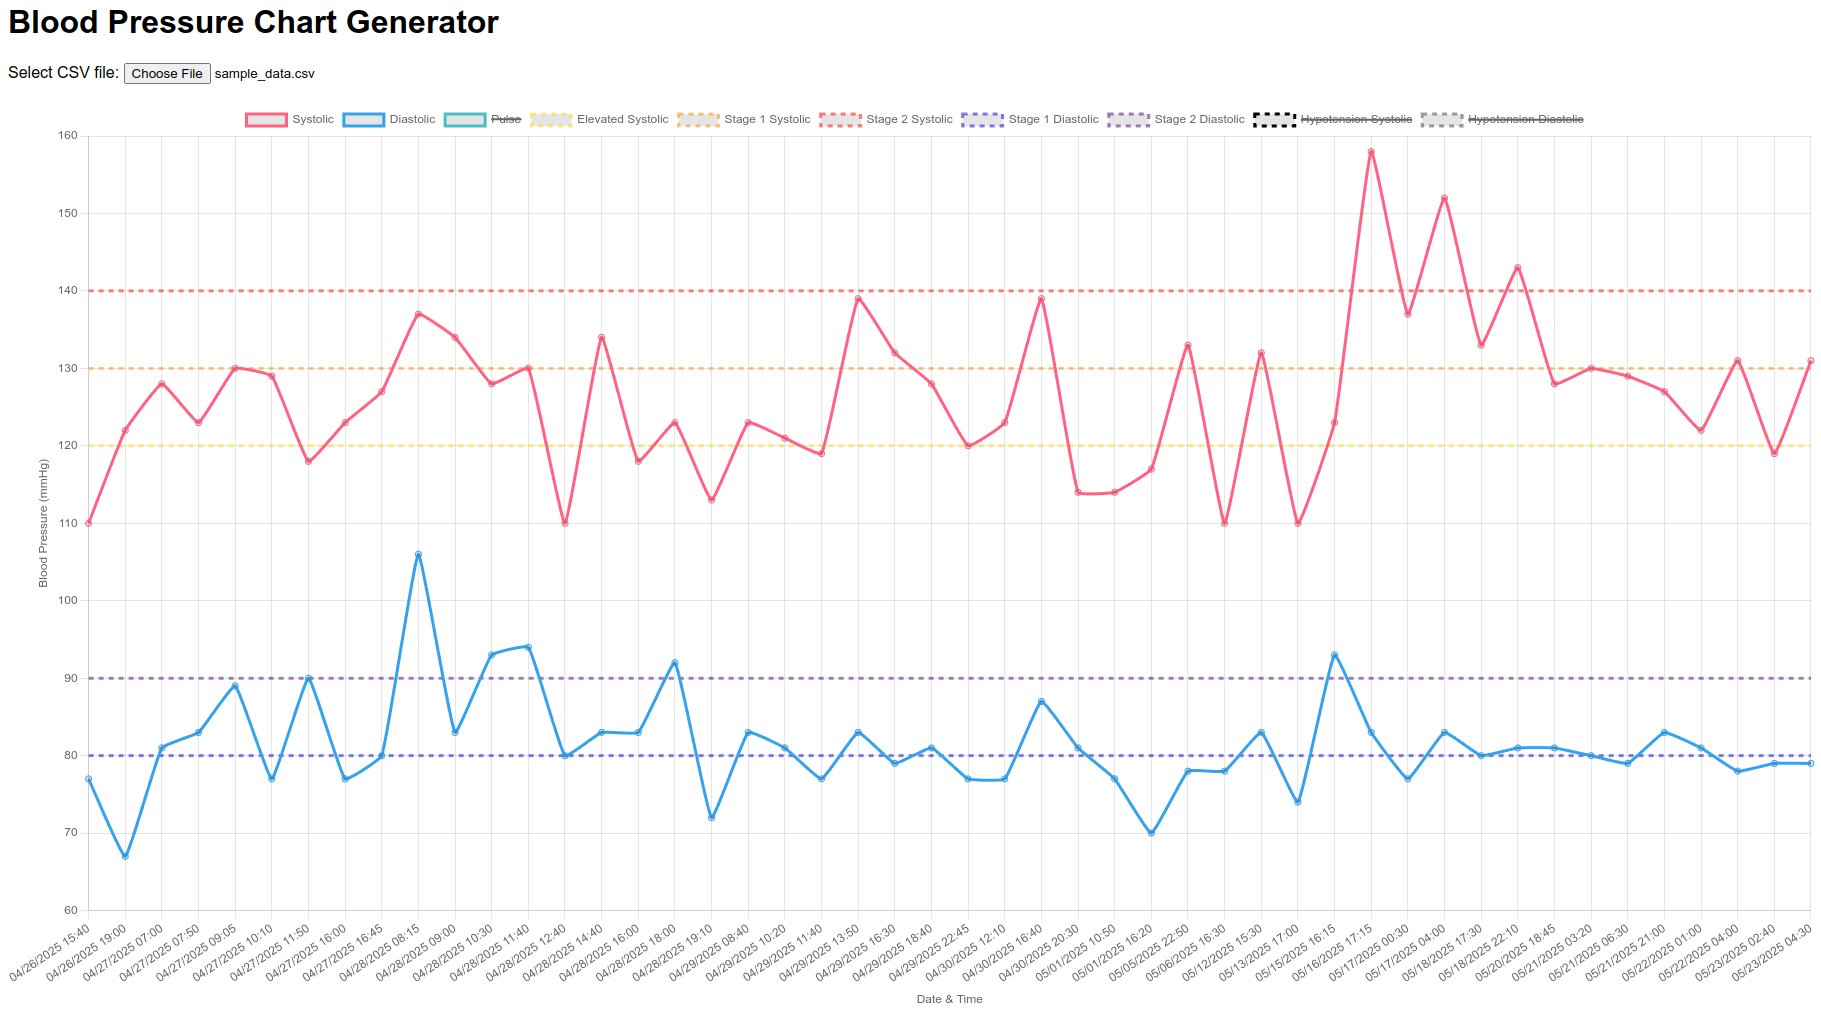
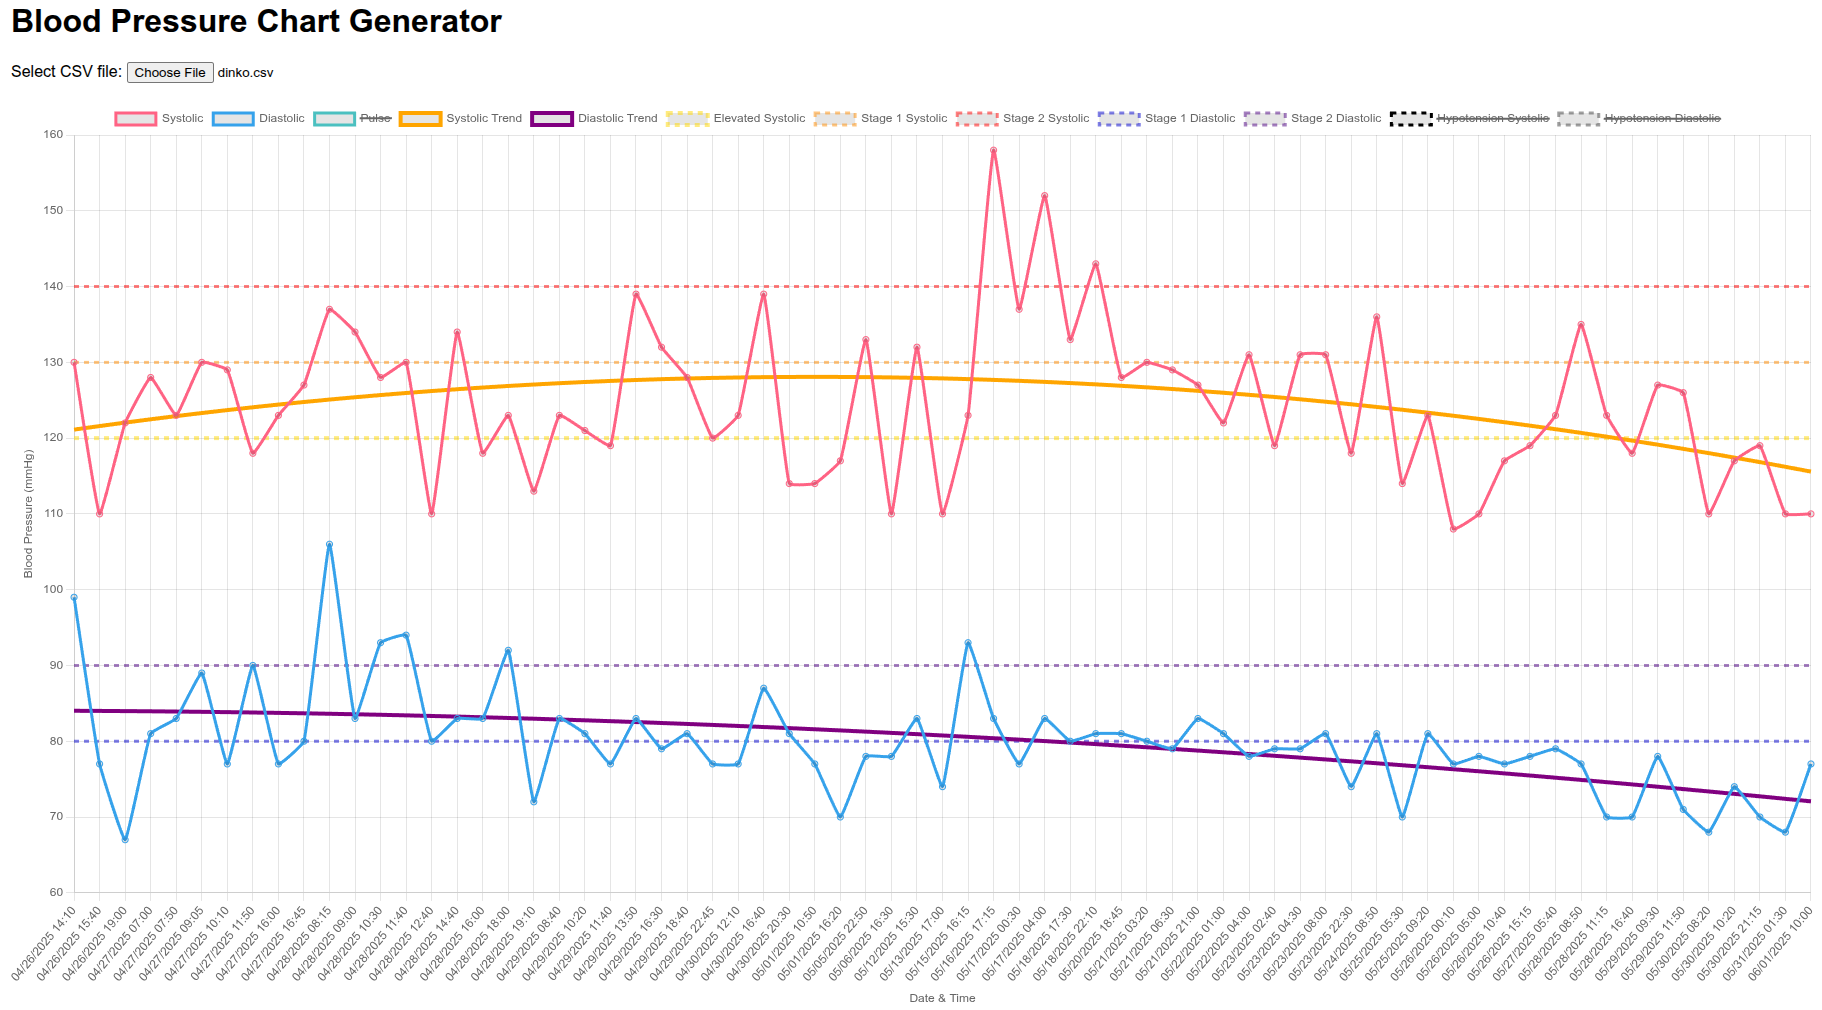
Add polynomial trend lines for systolic and diastolic

diff --git a/index.html b/index.html
@@ -38,6 +38,59 @@
                 }
             });
 
+            function matrixMultiply(A, B) {
+                const rows = A.length, cols = B[0].length, mid = B.length;
+                const result = Array.from({ length: rows }, () => Array(cols).fill(0));
+                for (let i = 0; i < rows; i++) {
+                    for (let k = 0; k < mid; k++) {
+                        for (let j = 0; j < cols; j++) {
+                            result[i][j] += A[i][k] * B[k][j];
+                        }
+                    }
+                }
+                return result;
+            }
+
+            function gaussianElimination(A, b) {
+                const n = A.length;
+                const M = A.map((row, i) => [...row, ...b[i]]);
+                for (let i = 0; i < n; i++) {
+                    let max = i;
+                    for (let k = i + 1; k < n; k++) {
+                        if (Math.abs(M[k][i]) > Math.abs(M[max][i])) max = k;
+                    }
+                    [M[i], M[max]] = [M[max], M[i]];
+                    const div = M[i][i];
+                    for (let j = i; j < M[i].length; j++) M[i][j] /= div;
+                    for (let k = 0; k < n; k++) {
+                        if (k === i) continue;
+                        const factor = M[k][i];
+                        for (let j = i; j < M[k].length; j++) {
+                            M[k][j] -= factor * M[i][j];
+                        }
+                    }
+                }
+                return M.map(row => row.slice(-b[0].length));
+            }
+
+            function getPolynomialTrend(yValues, degree = 2) {
+                const n = yValues.length;
+                if (n === 0) return [];
+                const X = [];
+                for (let i = 0; i < n; i++) {
+                    const row = [];
+                    for (let d = 0; d <= degree; d++) row.push(Math.pow(i, d));
+                    X.push(row);
+                }
+                const XT = X[0].map((_, j) => X.map(row => row[j]));;
+                const XTX = matrixMultiply(XT, X);
+                const XTy = matrixMultiply(XT, yValues.map(v => [v]));
+                const coeffs = gaussianElimination(XTX, XTy).flat();
+                return yValues.map((_, i) =>
+                    coeffs.reduce((sum, c, d) => sum + c * Math.pow(i, d), 0)
+                );
+            }
+
             function parseCSV(text) {
                 const lines = text.trim().split(/\r?\n/);
                 const data = [];
@@ -76,9 +129,14 @@
                     `${r.datetime.toLocaleDateString(undefined, dateOpts)} ${r.datetime.toLocaleTimeString(undefined, timeOpts)}`
                 );
 
-                const systolicData = records.map(r => r.systolic);
-                const diastolicData = records.map(r => r.diastolic);
-                const pulseData = records.map(r => r.pulse);
+                // Raw date
+                const systolicData   = records.map(r => r.systolic);
+                const diastolicData  = records.map(r => r.diastolic);
+                const pulseData      = records.map(r => r.pulse);
+
+                // Trend lines
+                const systolicTrend  = getPolynomialTrend(systolicData, 2);
+                const diastolicTrend = getPolynomialTrend(diastolicData, 2);
 
                 // Threshold lines
                 const count = labels.length;
@@ -94,7 +152,9 @@
                 const datasets = [
                     { label: 'Systolic', data: systolicData, borderColor: 'rgba(255, 99, 132, 1)', fill: false, tension: 0.1 },
                     { label: 'Diastolic', data: diastolicData, borderColor: 'rgba(54, 162, 235, 1)', fill: false, tension: 0.1 },
-                    { label: 'Pulse', data: pulseData, borderColor: 'rgba(75, 192, 192, 1)', fill: false, tension: 0.1, yAxisID: 'pulse-axis', hidden: true, spanGaps: true },
+                    { label: 'Pulse', data: pulseData, borderColor: 'rgba(75, 192, 192, 1)', fill: false, tension: 0.1, yAxisID: 'pulse-axis', spanGaps: true, hidden: true },
+                    { label: 'Systolic Trend',  data: systolicTrend,  borderColor: 'orange', borderWidth: 4, fill: false, tension: 0, pointRadius: 0 },
+                    { label: 'Diastolic Trend', data: diastolicTrend, borderColor: 'purple', borderWidth: 4, fill: false, tension: 0, pointRadius: 0 },
                     { label: 'Elevated Systolic', data: elevatSys, borderColor: 'rgba(255, 215, 0, 0.5)', borderDash: [5,5], fill: false, pointRadius: 0 },
                     { label: 'Stage 1 Systolic', data: stage1Sys, borderColor: 'rgba(255, 140, 0, 0.5)', borderDash: [5,5], fill: false, pointRadius: 0 },
                     { label: 'Stage 2 Systolic', data: stage2Sys, borderColor: 'rgba(255, 0, 0, 0.5)', borderDash: [5,5], fill: false, pointRadius: 0 },

diff --git a/README.md b/README.md
@@ -4,6 +4,7 @@ A simple HTML/JavaScript tool that reads a local CSV file of blood pressure and 
 
 - Loads the data from local CSV file
 - Plots systolic and diastolic values on a single line chart
+- Plots polynomial trend lines for systolic and diastolic
 - Shows thresholds lines: Elevated blood pressure, Hypertension Stage 1 & 2, Hypotension
 - Toggleable legend items/lines
 - Tooltips display paired values: systolic, diastolic, and pulse
